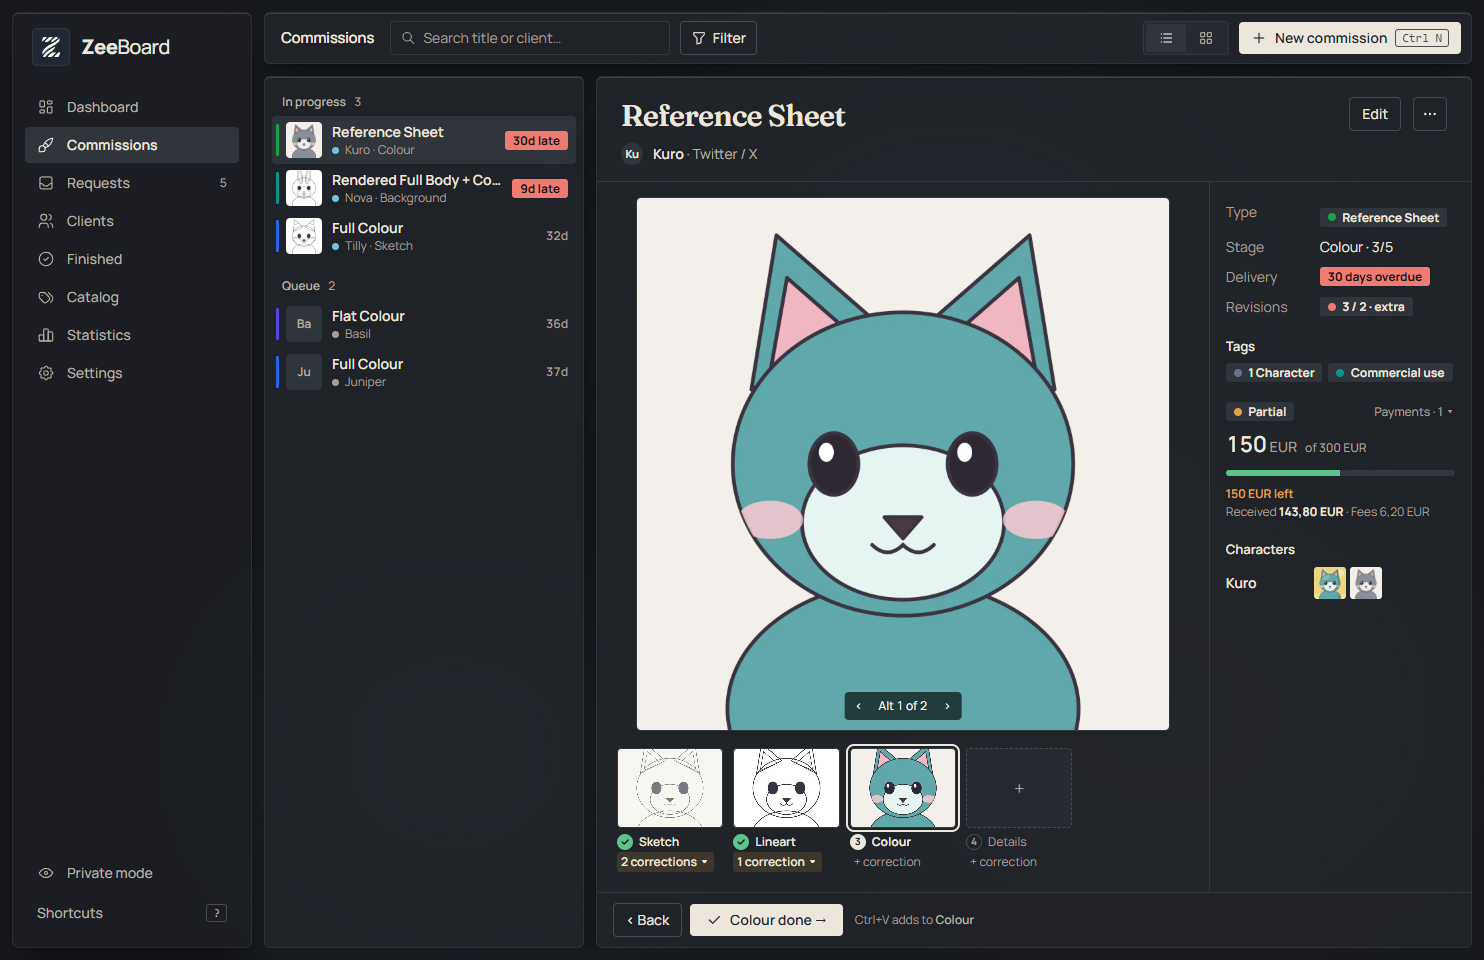
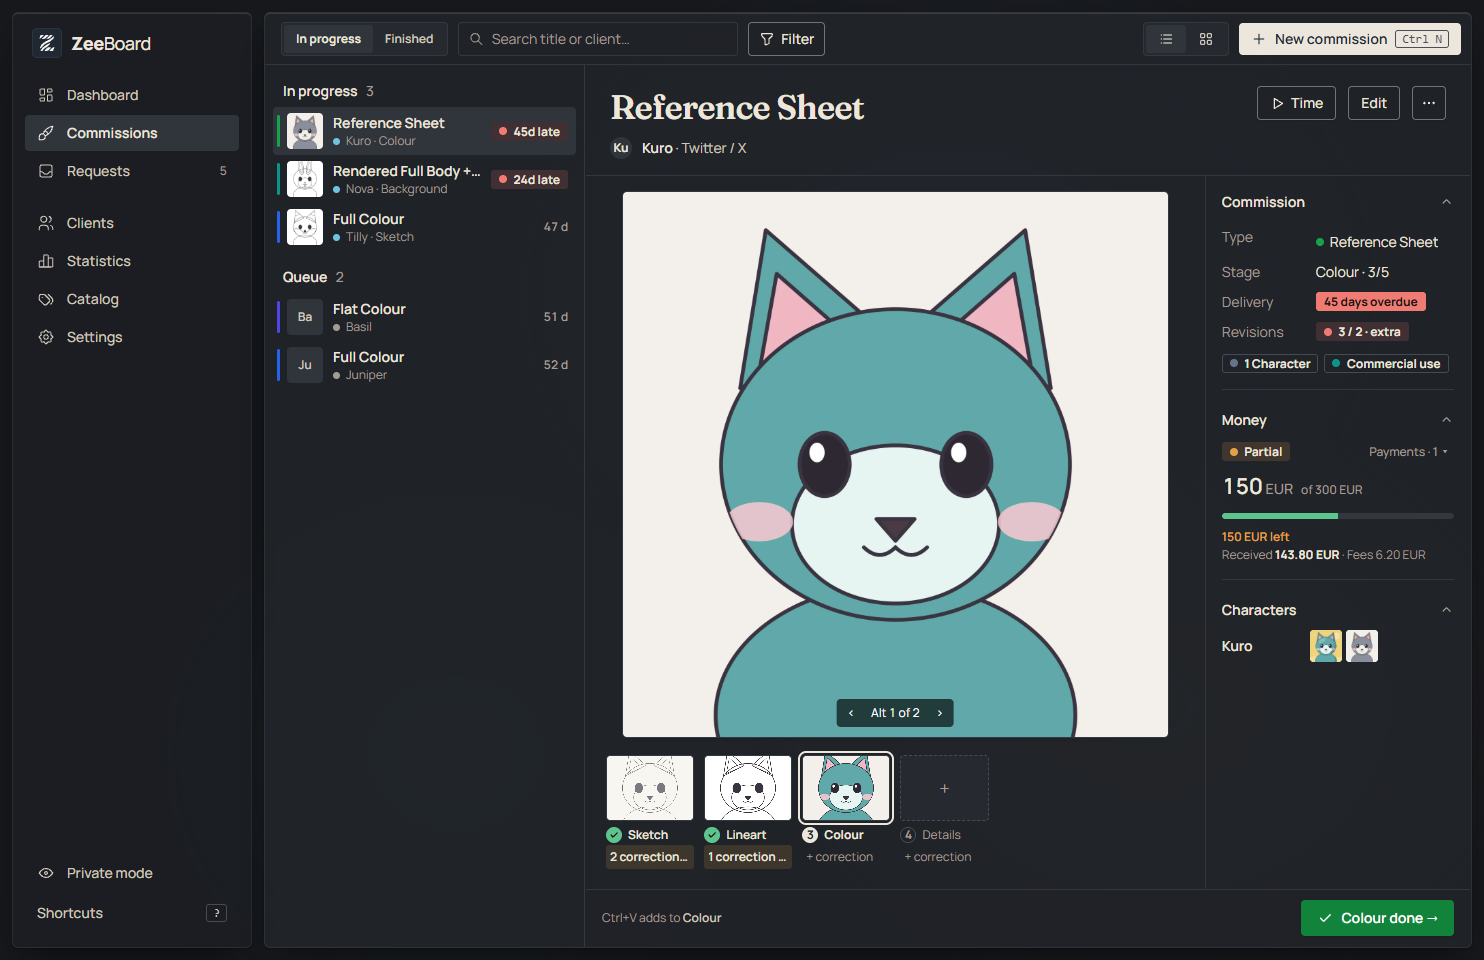
M10: capturas nuevas del README y la página, la página explica los datos de ejemplo y las teclas de Solicitudes, y la sección de la modernización en REDISENO.md

diff --git a/docs/index.html b/docs/index.html
@@ -37,7 +37,7 @@
           <span class="btn primary disabled" aria-disabled="true" title="Disponible con la versión 1.0">Disponible con la 1.0</span>
           <a class="btn" href="https://github.com/alejandroDonGar/ZeeBoard">Ver el código</a>
         </div>
-        <p class="hint">Gratis y de código abierto (MIT). Las capturas usan datos de ejemplo inventados.</p>
+        <p class="hint">Gratis y de código abierto (MIT). Las capturas usan datos de ejemplo inventados; al abrirla vacía puedes cargar unos para probarla y quitarlos después.</p>
       </div>
       <img class="shot" src="images/dashboard.png" alt="Panel principal de ZeeBoard" width="1484" height="960">
     </section>
@@ -95,7 +95,7 @@
           <h2>Conoce a quien te encarga</h2>
           <p>Su historial, sus personajes de referencia y cuánto te han traído, todo en un sitio.</p>
           <ul>
-            <li><b>Solicitudes</b> en una bandeja: acepta, rechaza o deja en lista de espera.</li>
+            <li><b>Solicitudes</b> en una bandeja: acepta, deja en espera o rechaza con una tecla (A, W, D) y se abre la siguiente.</li>
             <li><b>Personajes</b> con sus imágenes de referencia.</li>
             <li><b>Catálogo</b> de tipos de comisión con su color, precio, etapas y revisiones; las etiquetas, para los extras.</li>
           </ul>
